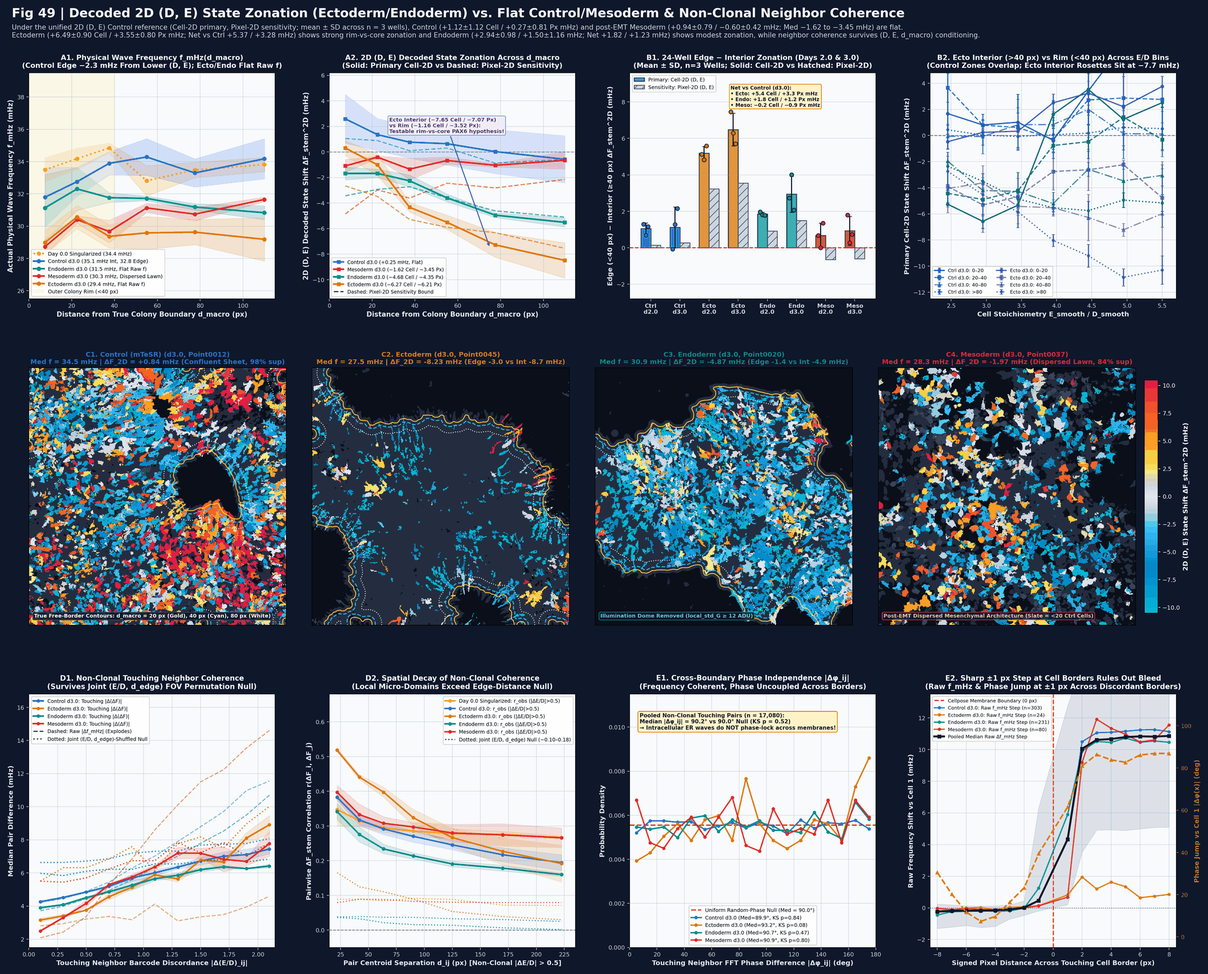
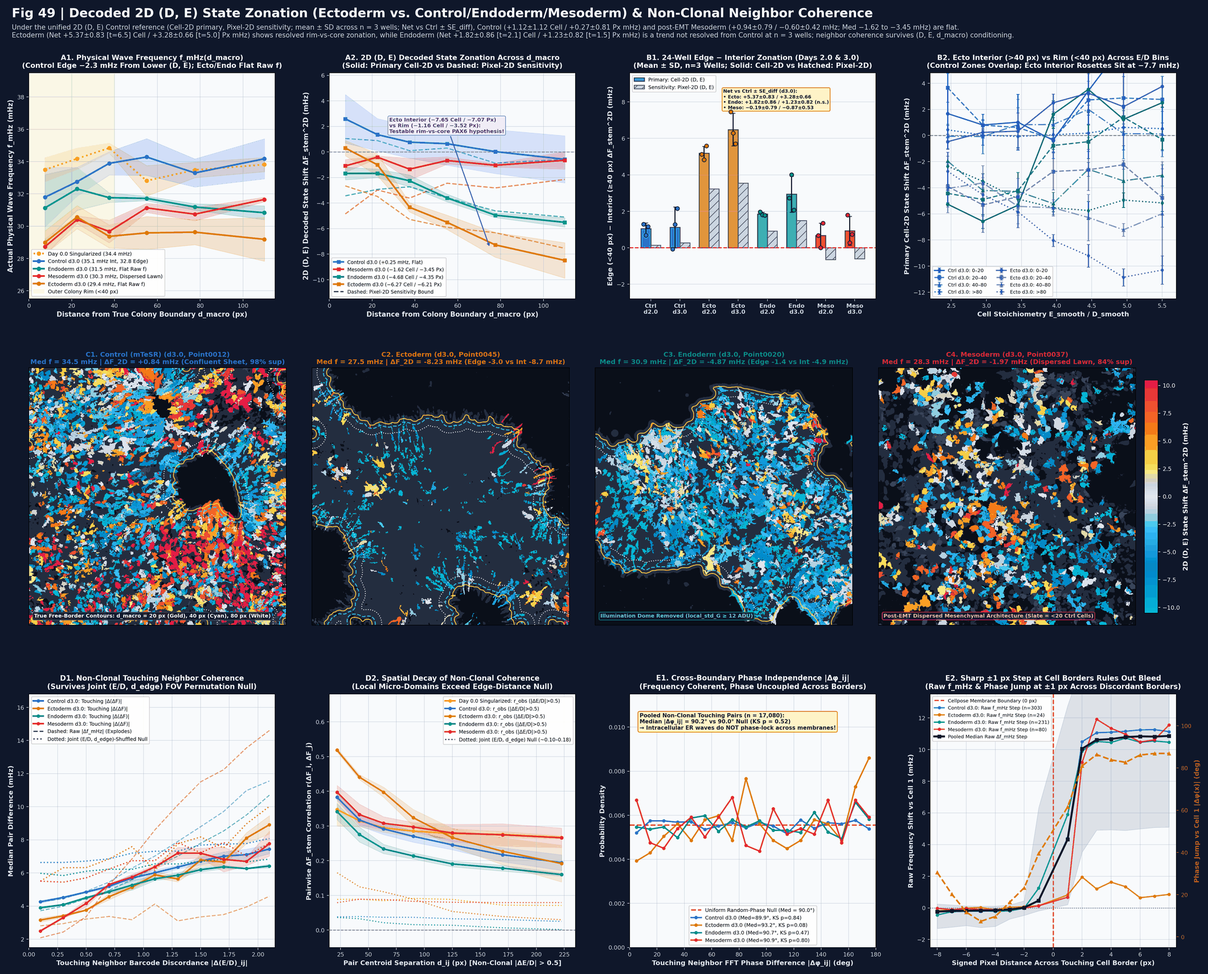
Add SE_diff to Net vs Ctrl edge zonation, qualify Endoderm as n=3 trend, clarify variance share vs SD, and clean repo

Changed region(s): [[0.0311, 0.0, 0.8091, 0.124], [0.8091, 0.4959, 0.8402, 0.5269]]

diff --git a/H9_FOV_Physiology_Atlas_Viewer.html b/H9_FOV_Physiology_Atlas_Viewer.html
@@ -727,12 +727,12 @@ function updateUI() {
     const figs = [
       {
         title: "Figure 50 — Out-of-Sample Reference Robustness (LOWO, Day-Matched, Edge-Matched P_ctrl), Knot-Free Domain LLR, & Competent-Mask Audit",
-        sub: "Demonstrates that all headline Axis 1 and Axis 2 conclusions survive Leave-One-Well-Out (LOWO), Day-Matched, and Edge-Distance-Stratified P_ctrl(D, E | d_edge) references across n = 3 replicate wells; shows that Relaxed-Z (4.0 ≤ D_z < 5.0) brings all 4 lineages to a 97–99% ceiling (confirming spread Mesoderm masks retain low-amplitude waves); and partitions single-cell variance into Clonal Stoichiometry E/D (38.5% in raw f → 1.1–2.6% in ΔF_2D), Lineage × Day (6.8–7.1% in ΔF_2D, 7.4% in Δs_⊥), Colony Edge (1.4–1.7%), and Well-to-Well replicate drift (2.4% in ΔF_2D, 0.14% in Δs_⊥).",
+        sub: "Demonstrates that all headline Axis 1 and Axis 2 conclusions survive Leave-One-Well-Out (LOWO), Day-Matched, and Edge-Distance-Stratified P_ctrl(D, E | d_edge) references across n = 3 replicate wells; shows that Relaxed-Z (4.0 ≤ D_z < 5.0) brings all 4 lineages to a 97–99% ceiling (confirming spread Mesoderm masks retain low-amplitude waves); and partitions single-cell variance into Clonal Stoichiometry E/D (38.5% in raw f → 1.1–2.6% in ΔF_2D), Lineage × Day (6.8–7.1% in ΔF_2D, 7.4% in Δs_⊥), Colony Edge (1.4–1.7%), and Well-to-Well replicate drift (2.4% in ΔF_2D, ~35% of the lineage variance share or ~60% in SD units; 0.14% in Δs_⊥).",
         src: "figures/Fig50_Reference_Robustness_EdgeMatched_DayMatched_LOMO_Audit.png"
       },
       {
-        title: "Figure 49 — Decoded 2D (D, E) State Zonation (Ectoderm/Endoderm) vs. Flat Control/Mesoderm & Non-Clonal Neighbor Wave Coherence",
-        sub: "Under the unified 2D (D, E) Control reference (Cell-2D primary, Pixel-2D sensitivity; mean ± sample SD across n = 3 wells), pluripotent Control (Edge − Int = +1.12 ± 1.12 mHz Cell-2D, +0.27 ± 0.81 mHz Pixel-2D) and dispersed post-EMT Mesoderm (+0.94 ± 0.79 mHz Cell-2D, −0.60 ± 0.42 mHz Pixel-2D; Net vs Ctrl = −0.18 to −0.87 mHz; overall Med −1.62 to −3.45 mHz) show flat edge profiles consistent with 3D ER volume-wave robustness. Ectoderm (+6.49 ± 0.90 mHz Cell-2D, +3.55 ± 0.80 mHz Pixel-2D; Net vs Ctrl = +5.37 / +3.28 mHz; interior −7.65 vs. rim −1.16 mHz) shows clear rim-vs-core zonation and Endoderm (+2.94 ± 0.98 / +1.50 ± 1.16 mHz; Net vs Ctrl = +1.82 / +1.23 mHz) shows modest edge zonation. Touching non-clonal neighbor coherence survives a joint (E/D, d_macro)-matched FOV permutation null while exhibiting uniform cross-boundary phase differences (median |Δφ| = 90.2°, KS p = 0.52) and a sharp ±1 px step at cell borders.",
+        title: "Figure 49 — Decoded 2D (D, E) State Zonation (Ectoderm vs. Control/Endoderm/Mesoderm) & Non-Clonal Neighbor Wave Coherence",
+        sub: "Under the unified 2D (D, E) Control reference (Cell-2D primary, Pixel-2D sensitivity; mean ± sample SD across n = 3 wells; Net vs Ctrl ± SE_diff), pluripotent Control (Edge − Int = +1.12 ± 1.12 mHz Cell-2D, +0.27 ± 0.81 mHz Pixel-2D) and dispersed post-EMT Mesoderm (+0.94 ± 0.79 mHz Cell-2D, −0.60 ± 0.42 mHz Pixel-2D; Net vs Ctrl = −0.19 ± 0.79 / −0.87 ± 0.53 mHz; overall Med −1.62 to −3.45 mHz) show flat edge profiles consistent with 3D ER volume-wave robustness. Ectoderm (+6.49 ± 0.90 mHz Cell-2D, +3.55 ± 0.80 mHz Pixel-2D; Net vs Ctrl = +5.37 ± 0.83 [t=6.5] Cell-2D / +3.28 ± 0.66 [t=5.0] Pixel-2D; interior −7.65 vs. rim −1.16 mHz) shows statistically resolved rim-vs-core zonation (anchoring the primary PAX6 rim-vs-core hypothesis), whereas Endoderm (+2.94 ± 0.98 / +1.50 ± 1.16 mHz; Net vs Ctrl = +1.82 ± 0.86 [t=2.1] Cell-2D / +1.23 ± 0.82 [t=1.5] Pixel-2D) shows a smaller positive trend not resolved from Control at n = 3 wells (SOX17 as a weaker secondary lead). Touching non-clonal neighbor coherence survives a joint (E/D, d_macro)-matched FOV permutation null while exhibiting uniform cross-boundary phase differences (median |Δφ| = 90.2°, KS p = 0.52) and a sharp ±1 px step at cell borders.",
         src: "figures/Fig49_Colony_Edge_Zonation_and_Edge_Conditioned_Neighbor_Coherence.png"
       },
       {

diff --git a/index.html b/index.html
@@ -727,12 +727,12 @@ function updateUI() {
     const figs = [
       {
         title: "Figure 50 — Out-of-Sample Reference Robustness (LOWO, Day-Matched, Edge-Matched P_ctrl), Knot-Free Domain LLR, & Competent-Mask Audit",
-        sub: "Demonstrates that all headline Axis 1 and Axis 2 conclusions survive Leave-One-Well-Out (LOWO), Day-Matched, and Edge-Distance-Stratified P_ctrl(D, E | d_edge) references across n = 3 replicate wells; shows that Relaxed-Z (4.0 ≤ D_z < 5.0) brings all 4 lineages to a 97–99% ceiling (confirming spread Mesoderm masks retain low-amplitude waves); and partitions single-cell variance into Clonal Stoichiometry E/D (38.5% in raw f → 1.1–2.6% in ΔF_2D), Lineage × Day (6.8–7.1% in ΔF_2D, 7.4% in Δs_⊥), Colony Edge (1.4–1.7%), and Well-to-Well replicate drift (2.4% in ΔF_2D, 0.14% in Δs_⊥).",
+        sub: "Demonstrates that all headline Axis 1 and Axis 2 conclusions survive Leave-One-Well-Out (LOWO), Day-Matched, and Edge-Distance-Stratified P_ctrl(D, E | d_edge) references across n = 3 replicate wells; shows that Relaxed-Z (4.0 ≤ D_z < 5.0) brings all 4 lineages to a 97–99% ceiling (confirming spread Mesoderm masks retain low-amplitude waves); and partitions single-cell variance into Clonal Stoichiometry E/D (38.5% in raw f → 1.1–2.6% in ΔF_2D), Lineage × Day (6.8–7.1% in ΔF_2D, 7.4% in Δs_⊥), Colony Edge (1.4–1.7%), and Well-to-Well replicate drift (2.4% in ΔF_2D, ~35% of the lineage variance share or ~60% in SD units; 0.14% in Δs_⊥).",
         src: "figures/Fig50_Reference_Robustness_EdgeMatched_DayMatched_LOMO_Audit.png"
       },
       {
-        title: "Figure 49 — Decoded 2D (D, E) State Zonation (Ectoderm/Endoderm) vs. Flat Control/Mesoderm & Non-Clonal Neighbor Wave Coherence",
-        sub: "Under the unified 2D (D, E) Control reference (Cell-2D primary, Pixel-2D sensitivity; mean ± sample SD across n = 3 wells), pluripotent Control (Edge − Int = +1.12 ± 1.12 mHz Cell-2D, +0.27 ± 0.81 mHz Pixel-2D) and dispersed post-EMT Mesoderm (+0.94 ± 0.79 mHz Cell-2D, −0.60 ± 0.42 mHz Pixel-2D; Net vs Ctrl = −0.18 to −0.87 mHz; overall Med −1.62 to −3.45 mHz) show flat edge profiles consistent with 3D ER volume-wave robustness. Ectoderm (+6.49 ± 0.90 mHz Cell-2D, +3.55 ± 0.80 mHz Pixel-2D; Net vs Ctrl = +5.37 / +3.28 mHz; interior −7.65 vs. rim −1.16 mHz) shows clear rim-vs-core zonation and Endoderm (+2.94 ± 0.98 / +1.50 ± 1.16 mHz; Net vs Ctrl = +1.82 / +1.23 mHz) shows modest edge zonation. Touching non-clonal neighbor coherence survives a joint (E/D, d_macro)-matched FOV permutation null while exhibiting uniform cross-boundary phase differences (median |Δφ| = 90.2°, KS p = 0.52) and a sharp ±1 px step at cell borders.",
+        title: "Figure 49 — Decoded 2D (D, E) State Zonation (Ectoderm vs. Control/Endoderm/Mesoderm) & Non-Clonal Neighbor Wave Coherence",
+        sub: "Under the unified 2D (D, E) Control reference (Cell-2D primary, Pixel-2D sensitivity; mean ± sample SD across n = 3 wells; Net vs Ctrl ± SE_diff), pluripotent Control (Edge − Int = +1.12 ± 1.12 mHz Cell-2D, +0.27 ± 0.81 mHz Pixel-2D) and dispersed post-EMT Mesoderm (+0.94 ± 0.79 mHz Cell-2D, −0.60 ± 0.42 mHz Pixel-2D; Net vs Ctrl = −0.19 ± 0.79 / −0.87 ± 0.53 mHz; overall Med −1.62 to −3.45 mHz) show flat edge profiles consistent with 3D ER volume-wave robustness. Ectoderm (+6.49 ± 0.90 mHz Cell-2D, +3.55 ± 0.80 mHz Pixel-2D; Net vs Ctrl = +5.37 ± 0.83 [t=6.5] Cell-2D / +3.28 ± 0.66 [t=5.0] Pixel-2D; interior −7.65 vs. rim −1.16 mHz) shows statistically resolved rim-vs-core zonation (anchoring the primary PAX6 rim-vs-core hypothesis), whereas Endoderm (+2.94 ± 0.98 / +1.50 ± 1.16 mHz; Net vs Ctrl = +1.82 ± 0.86 [t=2.1] Cell-2D / +1.23 ± 0.82 [t=1.5] Pixel-2D) shows a smaller positive trend not resolved from Control at n = 3 wells (SOX17 as a weaker secondary lead). Touching non-clonal neighbor coherence survives a joint (E/D, d_macro)-matched FOV permutation null while exhibiting uniform cross-boundary phase differences (median |Δφ| = 90.2°, KS p = 0.52) and a sharp ±1 px step at cell borders.",
         src: "figures/Fig49_Colony_Edge_Zonation_and_Edge_Conditioned_Neighbor_Coherence.png"
       },
       {

diff --git a/build_h9_fov_atlas_and_html_viewer.py b/build_h9_fov_atlas_and_html_viewer.py
@@ -1453,12 +1453,12 @@ function updateUI() {{
     const figs = [
       {{
         title: "Figure 50 — Out-of-Sample Reference Robustness (LOWO, Day-Matched, Edge-Matched P_ctrl), Knot-Free Domain LLR, & Competent-Mask Audit",
-        sub: "Demonstrates that all headline Axis 1 and Axis 2 conclusions survive Leave-One-Well-Out (LOWO), Day-Matched, and Edge-Distance-Stratified P_ctrl(D, E | d_edge) references across n = 3 replicate wells; shows that Relaxed-Z (4.0 ≤ D_z < 5.0) brings all 4 lineages to a 97–99% ceiling (confirming spread Mesoderm masks retain low-amplitude waves); and partitions single-cell variance into Clonal Stoichiometry E/D (38.5% in raw f → 1.1–2.6% in ΔF_2D), Lineage × Day (6.8–7.1% in ΔF_2D, 7.4% in Δs_⊥), Colony Edge (1.4–1.7%), and Well-to-Well replicate drift (2.4% in ΔF_2D, 0.14% in Δs_⊥).",
+        sub: "Demonstrates that all headline Axis 1 and Axis 2 conclusions survive Leave-One-Well-Out (LOWO), Day-Matched, and Edge-Distance-Stratified P_ctrl(D, E | d_edge) references across n = 3 replicate wells; shows that Relaxed-Z (4.0 ≤ D_z < 5.0) brings all 4 lineages to a 97–99% ceiling (confirming spread Mesoderm masks retain low-amplitude waves); and partitions single-cell variance into Clonal Stoichiometry E/D (38.5% in raw f → 1.1–2.6% in ΔF_2D), Lineage × Day (6.8–7.1% in ΔF_2D, 7.4% in Δs_⊥), Colony Edge (1.4–1.7%), and Well-to-Well replicate drift (2.4% in ΔF_2D, ~35% of the lineage variance share or ~60% in SD units; 0.14% in Δs_⊥).",
         src: "figures/Fig50_Reference_Robustness_EdgeMatched_DayMatched_LOMO_Audit.png"
       }},
       {{
-        title: "Figure 49 — Decoded 2D (D, E) State Zonation (Ectoderm/Endoderm) vs. Flat Control/Mesoderm & Non-Clonal Neighbor Wave Coherence",
-        sub: "Under the unified 2D (D, E) Control reference (Cell-2D primary, Pixel-2D sensitivity; mean ± sample SD across n = 3 wells), pluripotent Control (Edge − Int = +1.12 ± 1.12 mHz Cell-2D, +0.27 ± 0.81 mHz Pixel-2D) and dispersed post-EMT Mesoderm (+0.94 ± 0.79 mHz Cell-2D, −0.60 ± 0.42 mHz Pixel-2D; Net vs Ctrl = −0.18 to −0.87 mHz; overall Med −1.62 to −3.45 mHz) show flat edge profiles consistent with 3D ER volume-wave robustness. Ectoderm (+6.49 ± 0.90 mHz Cell-2D, +3.55 ± 0.80 mHz Pixel-2D; Net vs Ctrl = +5.37 / +3.28 mHz; interior −7.65 vs. rim −1.16 mHz) shows clear rim-vs-core zonation and Endoderm (+2.94 ± 0.98 / +1.50 ± 1.16 mHz; Net vs Ctrl = +1.82 / +1.23 mHz) shows modest edge zonation. Touching non-clonal neighbor coherence survives a joint (E/D, d_macro)-matched FOV permutation null while exhibiting uniform cross-boundary phase differences (median |Δφ| = 90.2°, KS p = 0.52) and a sharp ±1 px step at cell borders.",
+        title: "Figure 49 — Decoded 2D (D, E) State Zonation (Ectoderm vs. Control/Endoderm/Mesoderm) & Non-Clonal Neighbor Wave Coherence",
+        sub: "Under the unified 2D (D, E) Control reference (Cell-2D primary, Pixel-2D sensitivity; mean ± sample SD across n = 3 wells; Net vs Ctrl ± SE_diff), pluripotent Control (Edge − Int = +1.12 ± 1.12 mHz Cell-2D, +0.27 ± 0.81 mHz Pixel-2D) and dispersed post-EMT Mesoderm (+0.94 ± 0.79 mHz Cell-2D, −0.60 ± 0.42 mHz Pixel-2D; Net vs Ctrl = −0.19 ± 0.79 / −0.87 ± 0.53 mHz; overall Med −1.62 to −3.45 mHz) show flat edge profiles consistent with 3D ER volume-wave robustness. Ectoderm (+6.49 ± 0.90 mHz Cell-2D, +3.55 ± 0.80 mHz Pixel-2D; Net vs Ctrl = +5.37 ± 0.83 [t=6.5] Cell-2D / +3.28 ± 0.66 [t=5.0] Pixel-2D; interior −7.65 vs. rim −1.16 mHz) shows statistically resolved rim-vs-core zonation (anchoring the primary PAX6 rim-vs-core hypothesis), whereas Endoderm (+2.94 ± 0.98 / +1.50 ± 1.16 mHz; Net vs Ctrl = +1.82 ± 0.86 [t=2.1] Cell-2D / +1.23 ± 0.82 [t=1.5] Pixel-2D) shows a smaller positive trend not resolved from Control at n = 3 wells (SOX17 as a weaker secondary lead). Touching non-clonal neighbor coherence survives a joint (E/D, d_macro)-matched FOV permutation null while exhibiting uniform cross-boundary phase differences (median |Δφ| = 90.2°, KS p = 0.52) and a sharp ±1 px step at cell borders.",
         src: "figures/Fig49_Colony_Edge_Zonation_and_Edge_Conditioned_Neighbor_Coherence.png"
       }},
       {{

diff --git a/Fresh_Eyes_AgreedUpon.md b/Fresh_Eyes_AgreedUpon.md
@@ -19,27 +19,27 @@
 
 ---
 
-## 2. Locked Quantitative Table (Day 3.0, $n = 3$ Wells/Condition; Mean $\pm$ Sample SD, `ddof=1`)
+## 2. Locked Quantitative Table (Day 3.0, $n = 3$ Wells/Condition; Mean $\pm$ Sample SD, `ddof=1`; `Net vs Ctrl` $\pm \text{SE}_{\text{diff}}$)
 
-| Lineage (Day 3.0) | **Primary `Cell-2D` $\Delta F_{\text{stem}}^{\text{2D}}$** (`Overall` \| `Edge <40px` \| `Int ≥40px` \| `Edge−Int` \| `Net vs Ctrl`) | `Cell-2D` Support | **Sensitivity `Pixel-2D` $\Delta F_{\text{stem}}^{\text{2D}}$** (`Overall` \| `Edge <40px` \| `Int ≥40px` \| `Edge−Int` \| `Net vs Ctrl`) | `Pixel-2D` Support | **Raw Physical $f_{\text{mHz}}$** (`Edge` \| `Int` \| `Edge−Int`) |
+| Lineage (Day 3.0) | **Primary `Cell-2D` $\Delta F_{\text{stem}}^{\text{2D}}$** (`Overall` \| `Edge <40px` \| `Int ≥40px` \| `Edge−Int` \| `Net vs Ctrl ± SE_diff`) | `Cell-2D` Support | **Sensitivity `Pixel-2D` $\Delta F_{\text{stem}}^{\text{2D}}$** (`Overall` \| `Edge <40px` \| `Int ≥40px` \| `Edge−Int` \| `Net vs Ctrl ± SE_diff`) | `Pixel-2D` Support | **Raw Physical $f_{\text{mHz}}$** (`Edge` \| `Int` \| `Edge−Int`) |
 | :--- | :---: | :---: | :---: | :---: | :---: |
 | **Control** | **`+0.25 ± 2.14`** (`+1.36` \| `+0.24` \| **`+1.12 ± 1.12`** \| `0.00`) | `98.1%` | `+0.26 ± 2.08` (`+0.53` \| `+0.26` \| `+0.27 ± 0.81` \| `0.00`) | `100.0%` | `32.83` \| `35.14` \| `-2.30 ± 1.27` |
-| **Ectoderm** | **`-6.27 ± 1.52`** (`-1.16` \| `-7.65` \| **`+6.49 ± 0.90`** \| **`+5.37`**) | `92.9%` | `-6.21 ± 1.65` (`-3.52` \| `-7.07` \| `+3.55 ± 0.80` \| **`+3.28`**) | `100.0%` | `29.65` \| `29.36` \| `+0.29 ± 1.61` |
-| **Endoderm** | **`-4.68 ± 0.56`** (`-1.91` \| `-4.85` \| **`+2.94 ± 0.98`** \| **`+1.82`**) | `98.6%` | `-4.35 ± 0.52` (`-2.96` \| `-4.46` \| `+1.50 ± 1.16` \| **`+1.23`**) | `100.0%` | `32.07` \| `31.49` \| `+0.58 ± 1.94` |
-| **Mesoderm** | **`-1.62 ± 1.04`** (`-0.85` \| `-1.78` \| **`+0.94 ± 0.79`** \| **`-0.18`**) | **`86.6%`** | **`-3.45 ± 0.62`** (`-3.87` \| `-3.27` \| `-0.60 ± 0.42` \| **`-0.87`**) | `99.9%` | `29.62` \| `30.34` \| `-0.72 ± 0.22` |
+| **Ectoderm** | **`-6.27 ± 1.52`** (`-1.16` \| `-7.65` \| **`+6.49 ± 0.90`** \| **`+5.37 ± 0.83`** `[t=6.5]`) | `92.9%` | `-6.21 ± 1.65` (`-3.52` \| `-7.07` \| `+3.55 ± 0.80` \| **`+3.28 ± 0.66`** `[t=5.0]`) | `100.0%` | `29.65` \| `29.36` \| `+0.29 ± 1.61` |
+| **Endoderm** | **`-4.68 ± 0.56`** (`-1.91` \| `-4.85` \| **`+2.94 ± 0.98`** \| **`+1.82 ± 0.86`** `[t=2.1]`) | `98.6%` | `-4.35 ± 0.52` (`-2.96` \| `-4.46` \| `+1.50 ± 1.16` \| **`+1.23 ± 0.82`** `[t=1.5]`) | `100.0%` | `32.07` \| `31.49` \| `+0.58 ± 1.94` |
+| **Mesoderm** | **`-1.62 ± 1.04`** (`-0.85` \| `-1.78` \| **`+0.94 ± 0.79`** \| **`-0.19 ± 0.79`** `[t=-0.2]`) | **`86.6%`** | **`-3.45 ± 0.62`** (`-3.87` \| `-3.27` \| `-0.60 ± 0.42` \| **`-0.87 ± 0.53`** `[t=-1.7]`) | `99.9%` | `29.62` \| `30.34` \| `-0.72 ± 0.22` |
 
-*(Note: All `±` values above and in Figure 49/50 error bars are sample standard deviations (`ddof=1`) across the $n = 3$ biological replicate wells; standard errors of the mean `SEM = SD / √3` are `1.73×` smaller.)*
+*(Note: Per-condition `±` values above and in Figure 49/50 error bars are sample standard deviations (`ddof=1`) across the $n = 3$ biological replicate wells (`SEM = SD / √3`); for `Net vs Ctrl`, `±` reports the two-sample standard error of the difference between 3-well means, $\text{SE}_{\text{diff}} = \sqrt{(\text{SD}_{\text{lin}}^2 + \text{SD}_{\text{ctrl}}^2)/3}$, alongside $t = \text{Net}/\text{SE}_{\text{diff}}$.)*
 
 ---
 
 ## 3. Four Framing Guardrails for Figures & Text
-1. **Quote primary (`Cell-2D`) per-zone numbers alongside `Pixel-2D` sensitivity bounds and Control-baselined net edge zonation (`Net vs Ctrl`):**
-   - *Ectoderm (`d3.0`):* overall `-6.27 ± 1.52 mHz` (`-6.21 ± 1.65 mHz` pixel-2D), with interior `-7.65 mHz` vs. rim `-1.16 mHz` (`Edge − Int = +6.49 ± 0.90 mHz` cell-2D; `-7.07` vs. `-3.52 mHz`, `+3.55 ± 0.80 mHz` pixel-2D; **`+5.37 mHz` Cell-2D / `+3.28 mHz` Pixel-2D net of Control's own edge offset**)—the only large, unambiguous rim-vs-core zonation signal across both methods.
-   - *Endoderm (`d3.0`):* overall `-4.68 ± 0.56 mHz` (`-4.35 ± 0.52 mHz` pixel-2D), with interior `-4.85 mHz` vs. rim `-1.91 mHz` (`Edge − Int = +2.94 ± 0.98 mHz` cell-2D; `+1.50 ± 1.16 mHz` pixel-2D; **`+1.82 mHz` Cell-2D / `+1.23 mHz` Pixel-2D net of Control**—a modest rim-vs-core effect).
-   - *Mesoderm (`d3.0`):* quote explicitly as a **method-sensitive range of `-1.62 to -3.45 mHz`** (`-1.62 ± 1.04 mHz` in `Cell-2D`, where `13.4%` of low-$D$ spread mesenchymal cells fall in out-of-support `<20` Control-cell bins, vs. `-3.45 ± 0.62 mHz` in `Pixel-2D` with `99.9%` cell support; `Edge − Int` flips sign from `+0.94 ± 0.79 mHz` Cell-2D to `-0.60 ± 0.42 mHz` Pixel-2D, or `-0.18` to `-0.87 mHz` net of Control). Its primary differentiation signature resides in **`Tilt` / $\Delta s_\perp^{\text{stem}}$** and **`1-on-0` Vivid Pink** persistence at low `MinD`.
+1. **Quote primary (`Cell-2D`) per-zone numbers alongside `Pixel-2D` sensitivity bounds and Control-baselined net edge zonation (`Net vs Ctrl ± SE_diff`):**
+   - *Ectoderm (`d3.0`):* overall `-6.27 ± 1.52 mHz` (`-6.21 ± 1.65 mHz` pixel-2D), with interior `-7.65 mHz` vs. rim `-1.16 mHz` (`Edge − Int = +6.49 ± 0.90 mHz` cell-2D; `-7.07` vs. `-3.52 mHz`, `+3.55 ± 0.80 mHz` pixel-2D; **`+5.37 ± 0.83 mHz` Cell-2D [`t = 6.5`] / `+3.28 ± 0.66 mHz` Pixel-2D [`t = 5.0`] net of Control's own edge offset**)—the only large, statistically resolved rim-vs-core zonation signal across both methods at $n = 3$ wells.
+   - *Endoderm (`d3.0`):* overall `-4.68 ± 0.56 mHz` (`-4.35 ± 0.52 mHz` pixel-2D), with interior `-4.85 mHz` vs. rim `-1.91 mHz` (`Edge − Int = +2.94 ± 0.98 mHz` cell-2D; `+1.50 ± 1.16 mHz` pixel-2D; **`+1.82 ± 0.86 mHz` Cell-2D [`t = 2.1`, borderline at $n = 3$] / `+1.23 ± 0.82 mHz` Pixel-2D [`t = 1.5`, not resolved from Control at $n = 3$ wells]**—a positive trend that is not statistically resolved from Control's baseline edge offset at $n = 3$ wells).
+   - *Mesoderm (`d3.0`):* quote explicitly as a **method-sensitive range of `-1.62 to -3.45 mHz`** (`-1.62 ± 1.04 mHz` in `Cell-2D`, where `13.4%` of low-$D$ spread mesenchymal cells fall in out-of-support `<20` Control-cell bins, vs. `-3.45 ± 0.62 mHz` in `Pixel-2D` with `99.9%` cell support; unrounded `Edge − Int = +0.935 mHz` [`+0.94 ± 0.79 mHz`] Cell-2D vs. `-0.60 ± 0.42 mHz` Pixel-2D, or **`-0.19 ± 0.79 mHz` Cell-2D / `-0.87 ± 0.53 mHz` Pixel-2D net of Control**). Its primary differentiation signature resides in **`Tilt` / $\Delta s_\perp^{\text{stem}}$** and **`1-on-0` Vivid Pink** persistence at low `MinD`.
 2. **Flatness in `Control` and `Mesoderm` is consistent with 3D ER volume-wave robustness, not a standalone mechanistic proof:**
-   - State clearly that `Control` (`Edge − Int = +1.12 ± 1.12 mHz` Cell-2D, `+0.27 ± 0.81 mHz` Pixel-2D) and post-EMT `Mesoderm` (`Net vs Ctrl = -0.18` to `-0.87 mHz`, where cells form a dispersed mesenchymal lawn rather than cohesive epithelial colonies) show no systematic decoded-state edge zonation, consistent with mammalian 3D ER-supported volume waves being insensitive to boundary flattening per se.
-3. **Present the biological interpretation of `Ectoderm` / `Endoderm` edge zonation as a testable spatial hypothesis:**
-   - The decoded-state edge zonation in `Ectoderm` (`Net +3.3 to +5.4 mHz`) and `Endoderm` (`Net +1.2 to +1.8 mHz`) arises because dense interior rosette/sheet cores maintain higher $(D, E)$ expression (`Expected f_Ctrl ≈ 36.4–38.1 mHz`) while oscillating at `29.4–31.5 mHz`, whereas outer colony margins have lower $(D, E)$ (`Expected f_Ctrl ≈ 33.8–35.1 mHz`). Frame the reading that interior rosette/sheet cores are further along in differentiation while colony rims lag behind as a **spatial hypothesis testable by rim-vs-core fate-marker co-staining (`PAX6` / `SOX2` in Ectoderm, `SOX17` / `FOXA2` in Endoderm)**.
+   - State clearly that `Control` (`Edge − Int = +1.12 ± 1.12 mHz` Cell-2D, `+0.27 ± 0.81 mHz` Pixel-2D) and post-EMT `Mesoderm` (`Net vs Ctrl = -0.19 ± 0.79` to `-0.87 ± 0.53 mHz`, where cells form a dispersed mesenchymal lawn rather than cohesive epithelial colonies) show no systematic decoded-state edge zonation, consistent with mammalian 3D ER-supported volume waves being insensitive to boundary flattening per se.
+3. **Present the biological interpretation of `Ectoderm` edge zonation as a testable spatial hypothesis (with `Endoderm` as a weaker secondary lead):**
+   - The decoded-state edge zonation in `Ectoderm` (`Net +3.28 ± 0.66` to `+5.37 ± 0.83 mHz`, $t = 5.0\text{–}6.5$) and the smaller positive trend in `Endoderm` (`Net +1.23 ± 0.82` to `+1.82 ± 0.86 mHz`, $t = 1.5\text{–}2.1$, not resolved from Control at $n = 3$ wells) arise because dense interior rosette/sheet cores maintain higher $(D, E)$ expression (`Expected f_Ctrl ≈ 36.4–38.1 mHz`) while oscillating at `29.4–31.5 mHz`, whereas outer colony margins have lower $(D, E)$ (`Expected f_Ctrl ≈ 33.8–35.1 mHz`). Frame the reading that interior rosette cores are further along in differentiation while colony rims lag behind as a **spatial hypothesis anchored primarily in Ectoderm and testable by rim-vs-core fate-marker co-staining (`PAX6` / `SOX2` in Ectoderm as the primary test; `SOX17` / `FOXA2` in Endoderm as a weaker secondary lead)**.
 4. **Report hierarchical well-to-well variance and `Relaxed-Z` ceiling behavior transparently (`Figure 50`):**
-   - In `ΔF_2D`, `Well-to-Well (n = 3)` accounts for `2.41–2.42%` of total single-cell variance compared to `6.79–7.09%` for `Lineage × Day` (`~35%` of the lineage effect size, which is why all condition comparisons require `n = 3` well-level SD error bars), whereas in `Meso/EMT Δs_⊥`, `Well-to-Well` is `0.14%` vs. `7.41%` `Lineage × Day`. Under `Relaxed-Z (D_z ≥ 4.0)`, all 4 lineages reach a `97–99%` competent-mask ceiling (confirming that spread `Mesoderm` masks retain low-amplitude waves `4 ≤ D_z < 5`), while the primary lineage-specific excitability shift is `Mesoderm`'s elevated oscillation in low-competence territory (`P_ctrl < 25%`)..
+   - In `ΔF_2D`, `Well-to-Well (n = 3)` accounts for `2.41–2.42%` of total single-cell variance compared to `6.79–7.09%` for `Lineage × Day` (**`~35%` of the lineage variance share, or `~60%` in SD / effect-size units**, which is why all condition comparisons require `n = 3` well-level SD error bars), whereas in `Meso/EMT Δs_⊥`, `Well-to-Well` is `0.14%` vs. `7.41%` `Lineage × Day`. Under `Relaxed-Z (D_z ≥ 4.0)`, all 4 lineages reach a `97–99%` competent-mask ceiling (confirming that spread `Mesoderm` masks retain low-amplitude waves `4 ≤ D_z < 5`), while the primary lineage-specific excitability shift is `Mesoderm`'s elevated oscillation in low-competence territory (`P_ctrl < 25%`).

diff --git a/README.md b/README.md
@@ -39,7 +39,7 @@ Each FOV is rendered as a pixel-exact **12-Panel (`2 × 6`) Tile Sheet** (`fov_a
 | **2** | **2. Dual Still (`MinD` + `MinE`)** | Composite `Red = mCherry-MinD`, `Green = MinE-GFP` time-averaged fluorescence still with subtle colony boundaries. |
 | **3** | **3. Stoichiometry `E/D`** | Dimensionless carrier ratio `MinE / MinD` (`[2.0, 5.6]`) across the full colony footprint (`E_smooth / D_smooth`). |
 | **4** | **4. Raw FM Barcode `f_mHz`** | Raw phase-vocoder oscillation frequency (`18.5–49.5 mHz`) showing clonal salt-and-pepper heterogeneity driven by carrier `(D, E)` stoichiometry. |
-| **5** | **5. 2D `(D, E)` State $\Delta F_{\text{stem}}^{\text{2D}}$** | Unified 2D `(D, E)` lookup frequency shift vs. homeostatic `Control (d1.5–d3.0)` (`-10.5` to `+10.5 mHz`, grey steady-state band `[-1.5, +1.5] mHz`, with out-of-support bins `< 20` Control cells rendered in neutral slate and reported alongside the pixel-level 2D sensitivity bound `Px2D`; mean ± sample SD across $n = 3$ wells): `Control +0.25 ± 2.14 mHz` (`Px2D +0.26 ± 2.08`), `Mesoderm -1.62 to -3.45 mHz` (`-1.62 ± 1.04` Cell-2D with `86.6%` support vs. `-3.45 ± 0.62` Px2D with `99.9%` support; method-sensitive due to low-$D$ out-of-support cells), `Endoderm -4.68 ± 0.56 mHz` (`Px2D -4.35 ± 0.52`), and `Ectoderm -6.27 ± 1.52 mHz` (`Px2D -6.21 ± 1.65`). Under this 2D `(D, E)` reference, `Control` (`Edge − Int = +1.12 ± 1.12 mHz` Cell-2D, `+0.27 ± 0.81 mHz` Pixel-2D) and dispersed post-EMT `Mesoderm` (`+0.94 ± 0.79 mHz` Cell-2D, `-0.60 ± 0.42 mHz` Pixel-2D; `Net vs Ctrl = -0.18 to -0.87 mHz`) are flat across `d_macro` (consistent with 3D ER volume-wave robustness), whereas `Ectoderm` (`+6.49 ± 0.90 mHz` Cell-2D, `+3.55 ± 0.80 mHz` Pixel-2D; **`Net vs Ctrl = +5.37 / +3.28 mHz`**; interior `-7.65` vs. rim `-1.16 mHz`) shows clear rim-vs-core edge zonation and `Endoderm` (`+2.94 ± 0.98 mHz` Cell-2D, `+1.50 ± 1.16 mHz` Pixel-2D; **`Net vs Ctrl = +1.82 / +1.23 mHz`**) shows modest edge zonation (a testable `PAX6`/`SOX17` rim-vs-core hypothesis). |
+| **5** | **5. 2D `(D, E)` State $\Delta F_{\text{stem}}^{\text{2D}}$** | Unified 2D `(D, E)` lookup frequency shift vs. homeostatic `Control (d1.5–d3.0)` (`-10.5` to `+10.5 mHz`, grey steady-state band `[-1.5, +1.5] mHz`, with out-of-support bins `< 20` Control cells rendered in neutral slate and reported alongside the pixel-level 2D sensitivity bound `Px2D`; mean ± sample SD across $n = 3$ wells): `Control +0.25 ± 2.14 mHz` (`Px2D +0.26 ± 2.08`), `Mesoderm -1.62 to -3.45 mHz` (`-1.62 ± 1.04` Cell-2D with `86.6%` support vs. `-3.45 ± 0.62` Px2D with `99.9%` support; method-sensitive due to low-$D$ out-of-support cells), `Endoderm -4.68 ± 0.56 mHz` (`Px2D -4.35 ± 0.52`), and `Ectoderm -6.27 ± 1.52 mHz` (`Px2D -6.21 ± 1.65`). Under this 2D `(D, E)` reference, `Control` (`Edge − Int = +1.12 ± 1.12 mHz` Cell-2D, `+0.27 ± 0.81 mHz` Pixel-2D) and dispersed post-EMT `Mesoderm` (`+0.94 ± 0.79 mHz` Cell-2D, `-0.60 ± 0.42 mHz` Pixel-2D; `Net vs Ctrl = -0.19 ± 0.79 / -0.87 ± 0.53 mHz` $\text{SE}_{\text{diff}}$) are flat across `d_macro` (consistent with 3D ER volume-wave robustness), whereas `Ectoderm` (`+6.49 ± 0.90 mHz` Cell-2D, `+3.55 ± 0.80 mHz` Pixel-2D; **`Net vs Ctrl = +5.37 ± 0.83 mHz` [`t=6.5`] Cell-2D / `+3.28 ± 0.66 mHz` [`t=5.0`] Pixel-2D**; interior `-7.65` vs. rim `-1.16 mHz`) shows statistically resolved rim-vs-core edge zonation (anchoring a testable `PAX6`/`SOX2` rim-vs-core hypothesis) and `Endoderm` (`+2.94 ± 0.98 mHz` Cell-2D, `+1.50 ± 1.16 mHz` Pixel-2D; **`Net vs Ctrl = +1.82 ± 0.86 mHz` [`t=2.1`] Cell-2D / `+1.23 ± 0.82 mHz` [`t=1.5`] Pixel-2D**) shows a smaller positive trend not statistically resolved from Control at $n = 3$ wells (`SOX17` as a weaker secondary lead). |
 | **6** | **6. ROC Meso/EMT $\Delta s_\perp^{\text{stem}}$** | ROC-calibrated orthogonal departure from the differentiation highway ($\tau^* = +0.85\text{ mHz}$ grey-to-pink cutoff, `[-1.0, +2.8] mHz`). |
 | **7** | **7. Expected Control $P_{\text{ctrl}}(D, E)$** | Expected oscillation probability (`0–82%`, `viridis`) predicted from per-pixel $(D, E)$ expression using the homeostatic `Control (d1.5–d3.0)` surface. |
 | **8** | **8A. Surface Shift $\Delta P_{\text{osc}}^{\text{surf}}(D, E)$** | Population-level surface shift $P_{\text{cond}}(D, E) - P_{\text{ctrl}}(D, E)$ (`[-65%, +65%]`) mapped onto each pixel's $(D, E)$ coordinates. |
@@ -53,7 +53,7 @@ Each FOV is rendered as a pixel-exact **12-Panel (`2 × 6`) Tile Sheet** (`fov_a
 ## Key Summary Figures
 
 1. **[Figure 50 — Out-of-Sample Reference Robustness (`LOWO`, Day-Matched, Edge-Matched $P_{\text{ctrl}}(D, E \mid d_{\text{edge}})$), Knot-Free Domain LLR, & Competent-Mask Audit](figures/Fig50_Reference_Robustness_EdgeMatched_DayMatched_LOMO_Audit.png)**
-2. **[Figure 49 — Decoded 2D $(D, E)$ State Zonation (Ectoderm/Endoderm) vs. Flat Control/Mesoderm & Non-Clonal Neighbor Wave Coherence (`Δφ` Phase Independence & `±1 px` Border Step)](figures/Fig49_Colony_Edge_Zonation_and_Edge_Conditioned_Neighbor_Coherence.png)**
+2. **[Figure 49 — Decoded 2D $(D, E)$ State Zonation (Ectoderm vs. Control/Endoderm/Mesoderm) & Non-Clonal Neighbor Wave Coherence (`Δφ` Phase Independence & `±1 px` Border Step)](figures/Fig49_Colony_Edge_Zonation_and_Edge_Conditioned_Neighbor_Coherence.png)**
 3. **[Figure 48 — Master Representative Contact Sheet: All Spatial Views & Candidate $\Delta P_{\text{osc}}$ Formulations Across All 4 Lineages (`Day 3.0`)](figures/Fig48_Representative_Contact_Sheet_All_Spatial_Views_4Lineages.png)**
 4. **[Figure 47 — Dual-ROC Calibrated Oscillation Surprise Map: Control Baseline (`1-on-1` Grey) vs. Quenched (`0-on-1` Blue) & Low-Threshold Active (`1-on-0` Pink)](figures/Fig47_Dual_ROC_Surprise_Flat_Control_Blue_Quench_Pink_Meso.png)**
 5. **[Figure 46 — Marrying Bulk Trajectories with the Fit-Free Dual Sail: $(D, E)$ Phase-Portrait Bins in $(\Delta F_{\text{stem}}, \Delta P_{\text{osc}}^{\text{stem}})$](figures/Fig46_StoichiometryBin_FitFree_Dual_Sail_dF_vs_dPosc.png)**
